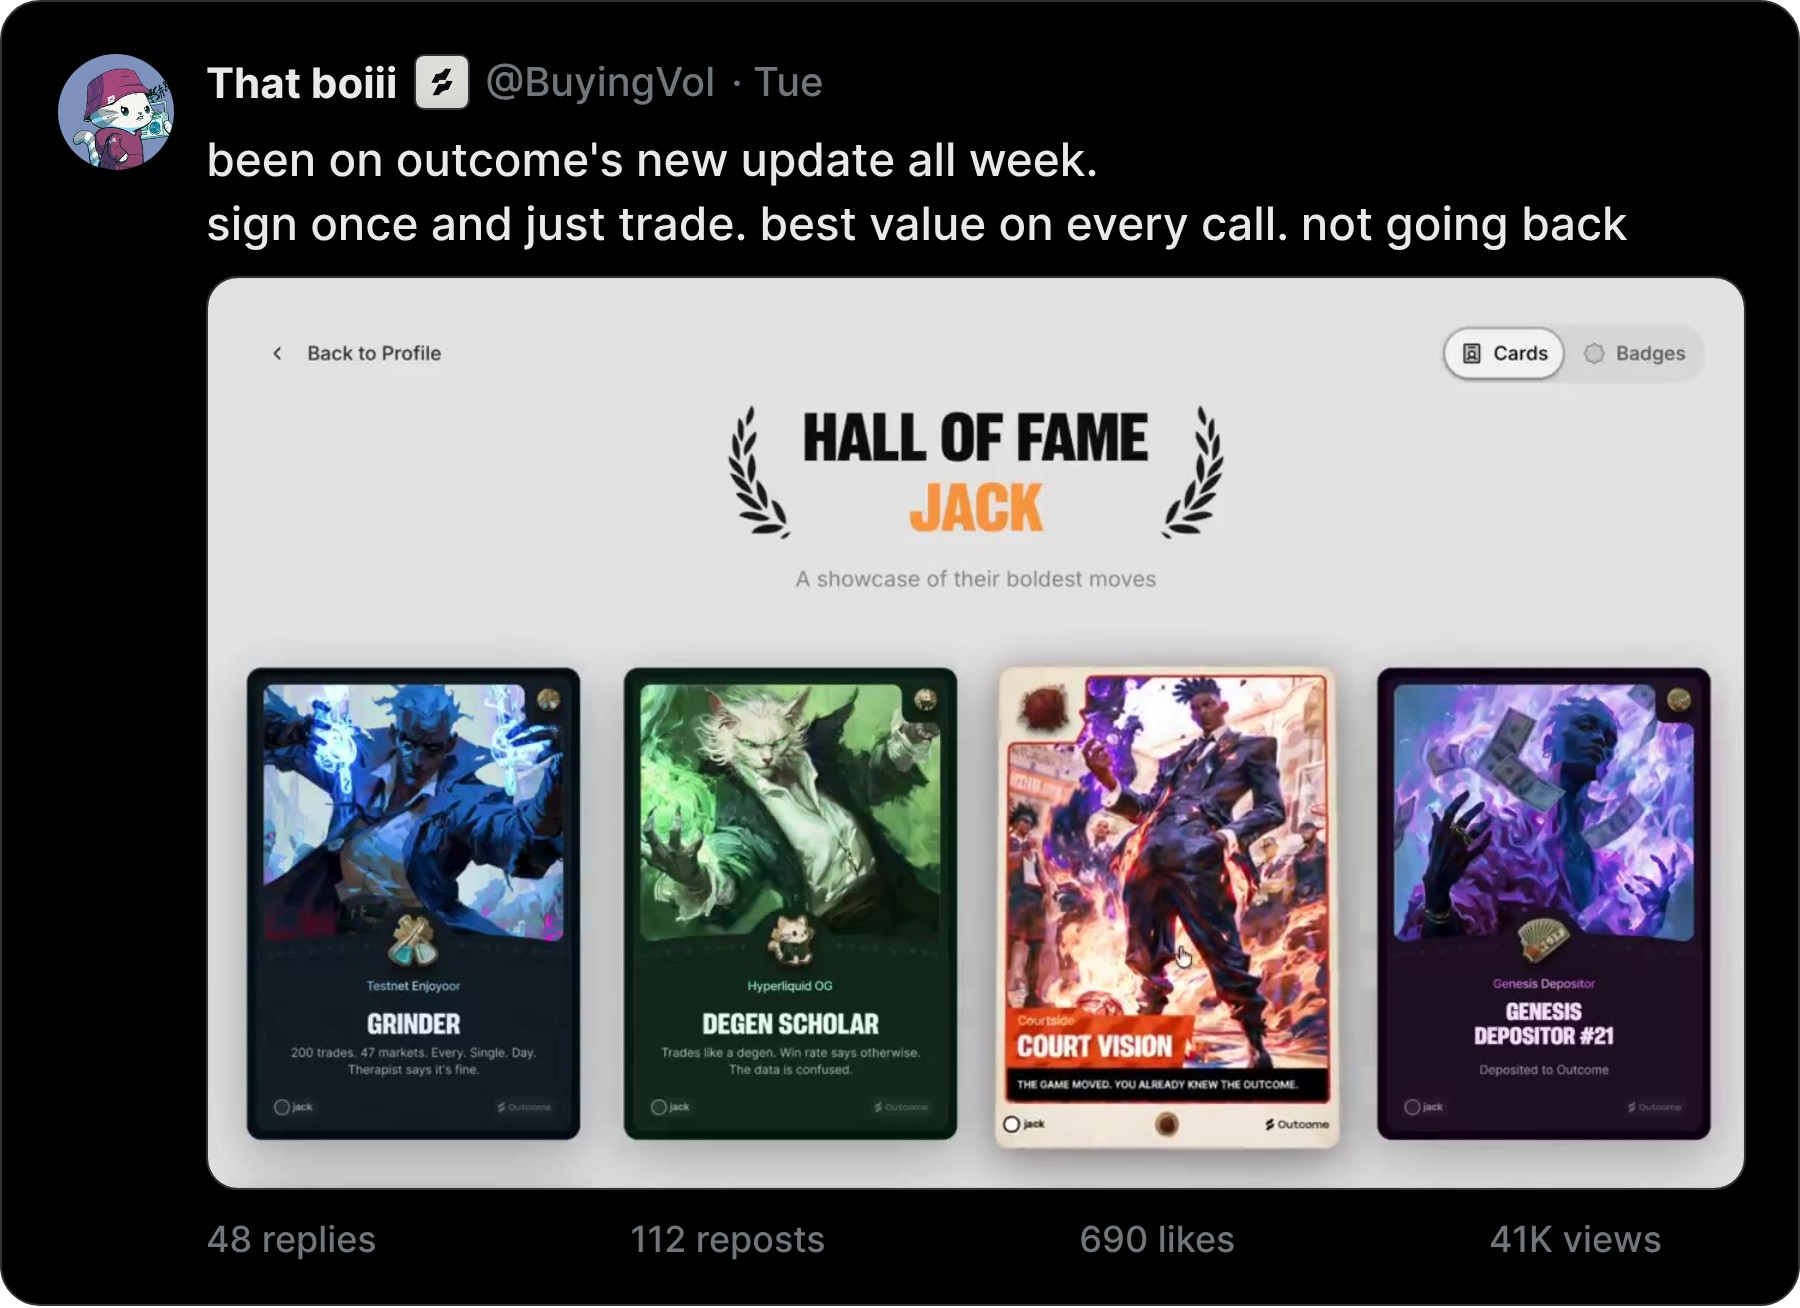
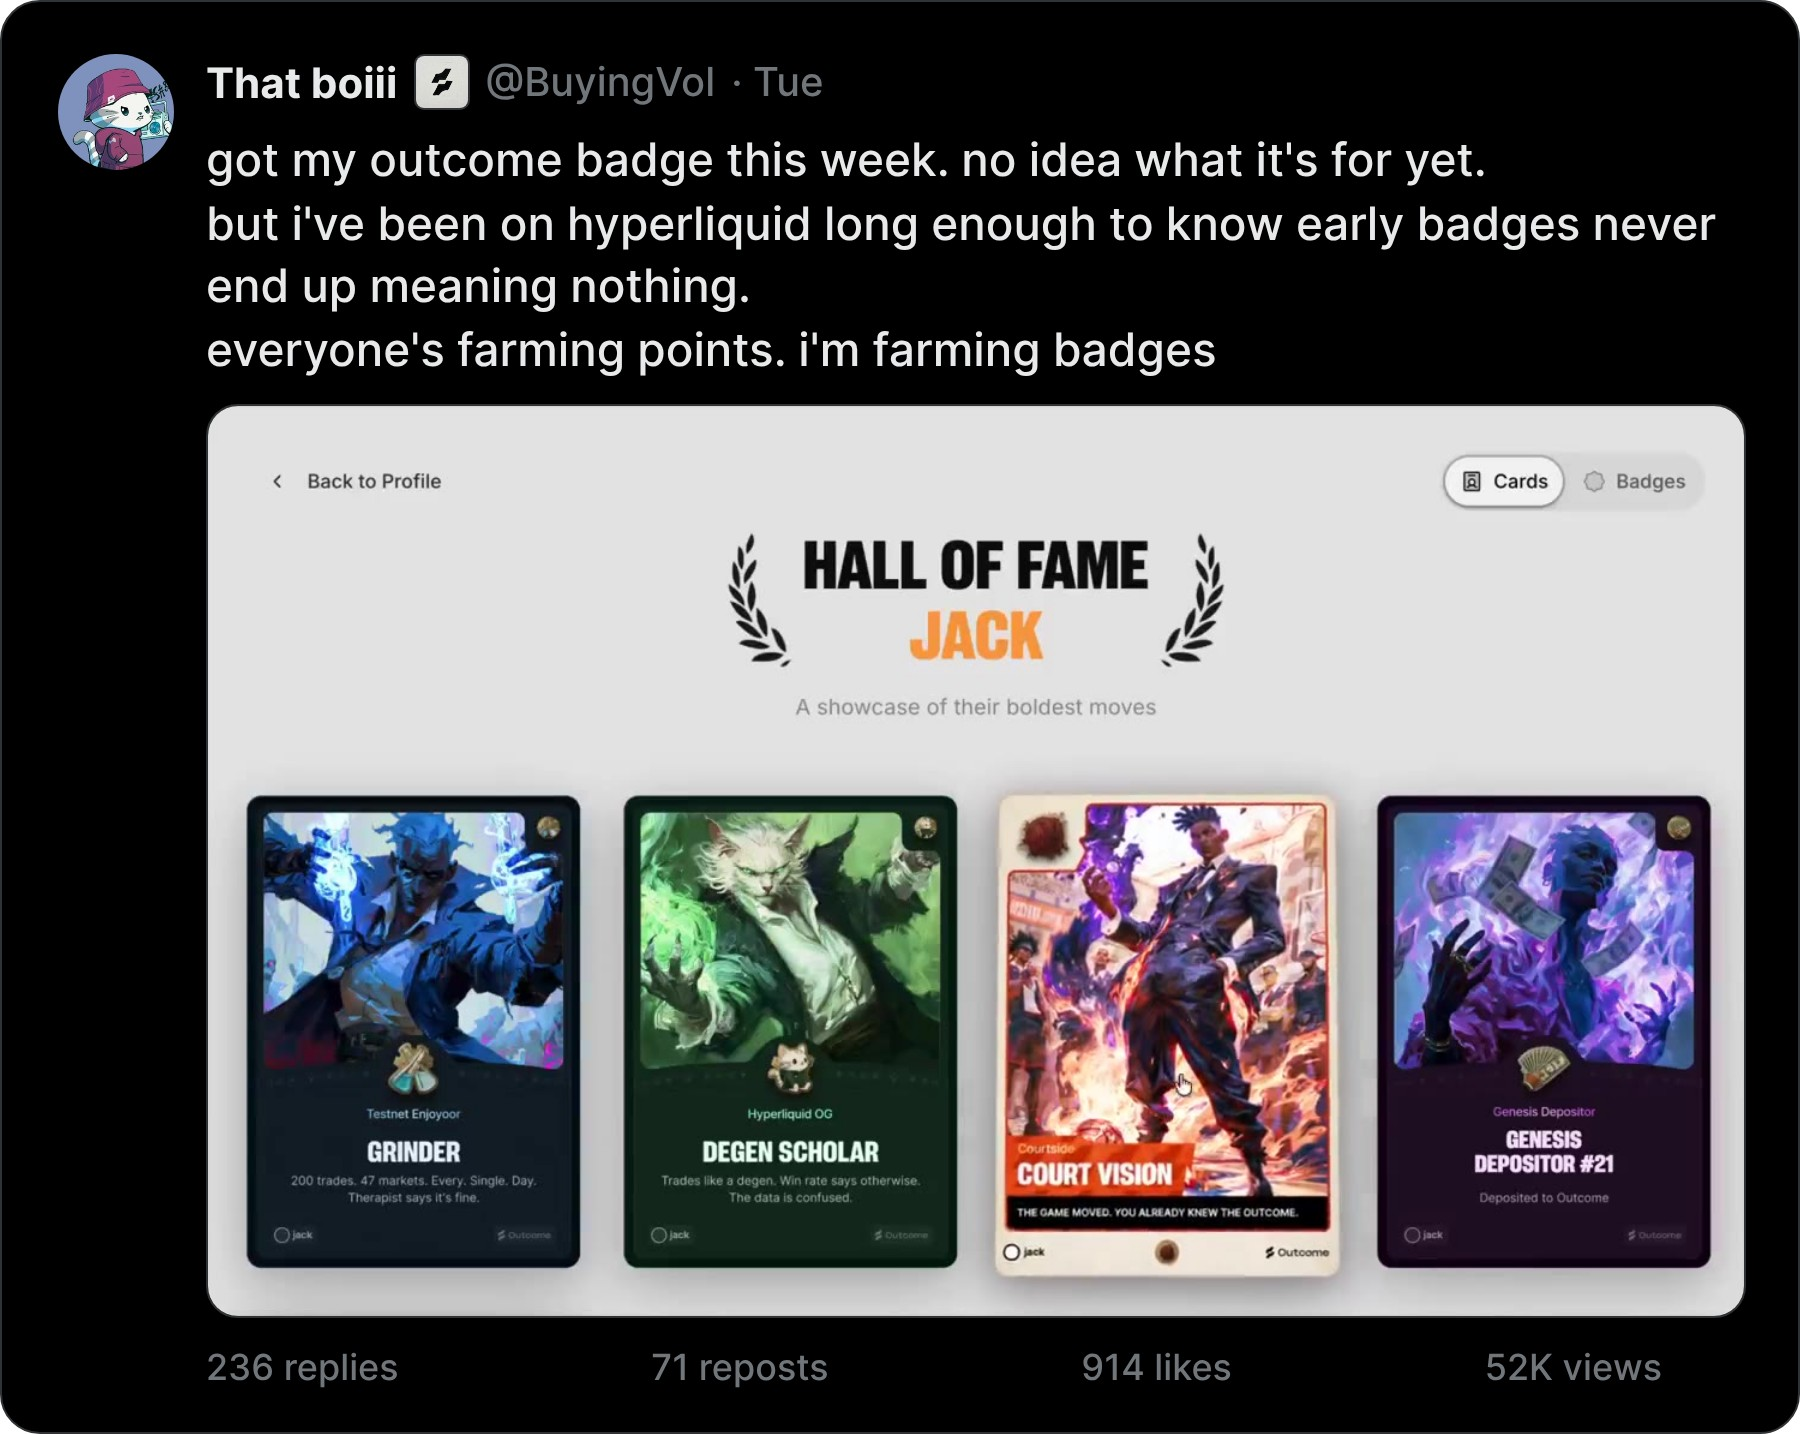
Community decks: mock posts tease the badge
Claude-Session: https://claude.ai/code/session_014PU9ujy91VW7m4JZPWrTgt

diff --git a/deck/obesepotato_hl/index.html b/deck/obesepotato_hl/index.html
@@ -113,8 +113,8 @@ section img[src$="wm.png"]{pointer-events:none}
 <h2 style="font-family:'PP Neue Corp Narrow', Impact, sans-serif;font-weight:800;font-size:110px;line-height:0.88;text-transform:uppercase;color:#F5F8FF">Your voice. Your words.</h2>
 </div>
 <div style="display:flex;gap:64px;align-items:flex-start">
-<img src="/deck/obesepotato_hl/post_peek1.jpg" alt="Mock post by obese.potato: been on outcome’s new update all week, sign once and just trade, best value on every call, not going back, with the Hall of Fame cards" style="width:736px;height:588px;object-fit:contain;border-radius:20px">
-<img src="/deck/obesepotato_hl/post_peek2.jpg" alt="Mock post by obese.potato: checked the same market on outcome and everywhere else i trade, outcome paid more, with the Champions League market card" style="width:736px;height:588px;object-fit:contain;border-radius:20px">
+<img src="/deck/obesepotato_hl/post_peek1.jpg" alt="Mock post by obese.potato: got my outcome badge this week, no idea what it’s for yet, early badges never end up meaning nothing, everyone’s farming points, i’m farming badges, with the Hall of Fame cards" style="width:736px;height:588px;object-fit:contain;border-radius:20px">
+<img src="/deck/obesepotato_hl/post_peek2.jpg" alt="Mock post by obese.potato: everyone keeps asking how to get the outcome badge, you don’t apply, you trade, tell them what’s broken and show up, and no, i’m not dming you a code" style="width:736px;height:588px;object-fit:contain;border-radius:20px">
 </div>
 <img src="/deck/_shared/logo_light.png" alt="Outcome" style="position:absolute;left:128px;bottom:64px;width:150px;height:34px;object-fit:contain">
 <p style="position:absolute;left:310px;bottom:64px;width:620px;font-size:24px;color:rgba(245,248,255,0.55)">Private brief for @Obesepotato_hl</p>

diff --git a/deck/dongdongrobin/index.html b/deck/dongdongrobin/index.html
@@ -113,8 +113,8 @@ section img[src$="wm.png"]{pointer-events:none}
 <h2 style="font-family:'PP Neue Corp Narrow', Impact, sans-serif;font-weight:800;font-size:110px;line-height:0.88;text-transform:uppercase;color:#F5F8FF">Your voice. Your words.</h2>
 </div>
 <div style="display:flex;gap:64px;align-items:flex-start">
-<img src="/deck/dongdongrobin/post_peek1.jpg" alt="Mock post by 东东弗斯: been on outcome’s new update all week, sign once and just trade, best value on every call, not going back, with the Hall of Fame cards" style="width:736px;height:588px;object-fit:contain;border-radius:20px">
-<img src="/deck/dongdongrobin/post_peek2.jpg" alt="Mock post by 东东弗斯: checked the same market on outcome and everywhere else i trade, outcome paid more, with the Champions League market card" style="width:736px;height:588px;object-fit:contain;border-radius:20px">
+<img src="/deck/dongdongrobin/post_peek1.jpg" alt="Mock post by 东东弗斯: got my outcome badge this week, no idea what it’s for yet, early badges never end up meaning nothing, everyone’s farming points, i’m farming badges, with the Hall of Fame cards" style="width:736px;height:588px;object-fit:contain;border-radius:20px">
+<img src="/deck/dongdongrobin/post_peek2.jpg" alt="Mock post by 东东弗斯: everyone keeps asking how to get the outcome badge, you don’t apply, you trade, tell them what’s broken and show up, and no, i’m not dming you a code" style="width:736px;height:588px;object-fit:contain;border-radius:20px">
 </div>
 <img src="/deck/_shared/logo_light.png" alt="Outcome" style="position:absolute;left:128px;bottom:64px;width:150px;height:34px;object-fit:contain">
 <p style="position:absolute;left:310px;bottom:64px;width:620px;font-size:24px;color:rgba(245,248,255,0.55)">Private brief for @dongdongRobin</p>

diff --git a/deck/hypeconomist/index.html b/deck/hypeconomist/index.html
@@ -113,8 +113,8 @@ section img[src$="wm.png"]{pointer-events:none}
 <h2 style="font-family:'PP Neue Corp Narrow', Impact, sans-serif;font-weight:800;font-size:110px;line-height:0.88;text-transform:uppercase;color:#F5F8FF">Your voice. Your words.</h2>
 </div>
 <div style="display:flex;gap:64px;align-items:flex-start">
-<img src="/deck/hypeconomist/post_peek1.jpg" alt="Mock post by HYPEconomist: been on outcome’s new update all week, sign once and just trade, best value on every call, not going back, with the Hall of Fame cards" style="width:736px;height:588px;object-fit:contain;border-radius:20px">
-<img src="/deck/hypeconomist/post_peek2.jpg" alt="Mock post by HYPEconomist: checked the same market on outcome and everywhere else i trade, outcome paid more, with the Champions League market card" style="width:736px;height:588px;object-fit:contain;border-radius:20px">
+<img src="/deck/hypeconomist/post_peek1.jpg" alt="Mock post by HYPEconomist: got my outcome badge this week, no idea what it’s for yet, early badges never end up meaning nothing, everyone’s farming points, i’m farming badges, with the Hall of Fame cards" style="width:736px;height:588px;object-fit:contain;border-radius:20px">
+<img src="/deck/hypeconomist/post_peek2.jpg" alt="Mock post by HYPEconomist: everyone keeps asking how to get the outcome badge, you don’t apply, you trade, tell them what’s broken and show up, and no, i’m not dming you a code" style="width:736px;height:588px;object-fit:contain;border-radius:20px">
 </div>
 <img src="/deck/_shared/logo_light.png" alt="Outcome" style="position:absolute;left:128px;bottom:64px;width:150px;height:34px;object-fit:contain">
 <p style="position:absolute;left:310px;bottom:64px;width:620px;font-size:24px;color:rgba(245,248,255,0.55)">Private brief for @HYPEconomist</p>

diff --git a/deck/buyingvol/index.html b/deck/buyingvol/index.html
@@ -113,8 +113,8 @@ section img[src$="wm.png"]{pointer-events:none}
 <h2 style="font-family:'PP Neue Corp Narrow', Impact, sans-serif;font-weight:800;font-size:110px;line-height:0.88;text-transform:uppercase;color:#F5F8FF">Your voice. Your words.</h2>
 </div>
 <div style="display:flex;gap:64px;align-items:flex-start">
-<img src="/deck/buyingvol/post_peek1.jpg" alt="Mock post by That boiii: been on outcome’s new update all week, sign once and just trade, best value on every call, not going back, with the Hall of Fame cards" style="width:736px;height:588px;object-fit:contain;border-radius:20px">
-<img src="/deck/buyingvol/post_peek2.jpg" alt="Mock post by That boiii: checked the same market on outcome and everywhere else i trade, outcome paid more, with the Champions League market card" style="width:736px;height:588px;object-fit:contain;border-radius:20px">
+<img src="/deck/buyingvol/post_peek1.jpg" alt="Mock post by That boiii: got my outcome badge this week, no idea what it’s for yet, early badges never end up meaning nothing, everyone’s farming points, i’m farming badges, with the Hall of Fame cards" style="width:736px;height:588px;object-fit:contain;border-radius:20px">
+<img src="/deck/buyingvol/post_peek2.jpg" alt="Mock post by That boiii: everyone keeps asking how to get the outcome badge, you don’t apply, you trade, tell them what’s broken and show up, and no, i’m not dming you a code" style="width:736px;height:588px;object-fit:contain;border-radius:20px">
 </div>
 <img src="/deck/_shared/logo_light.png" alt="Outcome" style="position:absolute;left:128px;bottom:64px;width:150px;height:34px;object-fit:contain">
 <p style="position:absolute;left:310px;bottom:64px;width:620px;font-size:24px;color:rgba(245,248,255,0.55)">Private brief for @BuyingVol</p>

diff --git a/deck/pangboygg/index.html b/deck/pangboygg/index.html
@@ -113,8 +113,8 @@ section img[src$="wm.png"]{pointer-events:none}
 <h2 style="font-family:'PP Neue Corp Narrow', Impact, sans-serif;font-weight:800;font-size:110px;line-height:0.88;text-transform:uppercase;color:#F5F8FF">Your voice. Your words.</h2>
 </div>
 <div style="display:flex;gap:64px;align-items:flex-start">
-<img src="/deck/pangboygg/post_peek1.jpg" alt="Mock post by pangboy.hl: been on outcome’s new update all week, sign once and just trade, best value on every call, not going back, with the Hall of Fame cards" style="width:736px;height:588px;object-fit:contain;border-radius:20px">
-<img src="/deck/pangboygg/post_peek2.jpg" alt="Mock post by pangboy.hl: checked the same market on outcome and everywhere else i trade, outcome paid more, with the Champions League market card" style="width:736px;height:588px;object-fit:contain;border-radius:20px">
+<img src="/deck/pangboygg/post_peek1.jpg" alt="Mock post by pangboy.hl: got my outcome badge this week, no idea what it’s for yet, early badges never end up meaning nothing, everyone’s farming points, i’m farming badges, with the Hall of Fame cards" style="width:736px;height:588px;object-fit:contain;border-radius:20px">
+<img src="/deck/pangboygg/post_peek2.jpg" alt="Mock post by pangboy.hl: everyone keeps asking how to get the outcome badge, you don’t apply, you trade, tell them what’s broken and show up, and no, i’m not dming you a code" style="width:736px;height:588px;object-fit:contain;border-radius:20px">
 </div>
 <img src="/deck/_shared/logo_light.png" alt="Outcome" style="position:absolute;left:128px;bottom:64px;width:150px;height:34px;object-fit:contain">
 <p style="position:absolute;left:310px;bottom:64px;width:620px;font-size:24px;color:rgba(245,248,255,0.55)">Private brief for @pangboygg</p>

diff --git a/deck/enesonchain/index.html b/deck/enesonchain/index.html
@@ -113,8 +113,8 @@ section img[src$="wm.png"]{pointer-events:none}
 <h2 style="font-family:'PP Neue Corp Narrow', Impact, sans-serif;font-weight:800;font-size:110px;line-height:0.88;text-transform:uppercase;color:#F5F8FF">Your voice. Your words.</h2>
 </div>
 <div style="display:flex;gap:64px;align-items:flex-start">
-<img src="/deck/enesonchain/post_peek1.jpg" alt="Mock post by enes.hl: been on outcome’s new update all week, sign once and just trade, best value on every call, not going back, with the Hall of Fame cards" style="width:736px;height:588px;object-fit:contain;border-radius:20px">
-<img src="/deck/enesonchain/post_peek2.jpg" alt="Mock post by enes.hl: checked the same market on outcome and everywhere else i trade, outcome paid more, with the Champions League market card" style="width:736px;height:588px;object-fit:contain;border-radius:20px">
+<img src="/deck/enesonchain/post_peek1.jpg" alt="Mock post by enes.hl: got my outcome badge this week, no idea what it’s for yet, early badges never end up meaning nothing, everyone’s farming points, i’m farming badges, with the Hall of Fame cards" style="width:736px;height:588px;object-fit:contain;border-radius:20px">
+<img src="/deck/enesonchain/post_peek2.jpg" alt="Mock post by enes.hl: everyone keeps asking how to get the outcome badge, you don’t apply, you trade, tell them what’s broken and show up, and no, i’m not dming you a code" style="width:736px;height:588px;object-fit:contain;border-radius:20px">
 </div>
 <img src="/deck/_shared/logo_light.png" alt="Outcome" style="position:absolute;left:128px;bottom:64px;width:150px;height:34px;object-fit:contain">
 <p style="position:absolute;left:310px;bottom:64px;width:620px;font-size:24px;color:rgba(245,248,255,0.55)">Private brief for @enesonchain</p>

diff --git a/deck/vexter/index.html b/deck/vexter/index.html
@@ -113,8 +113,8 @@ section img[src$="wm.png"]{pointer-events:none}
 <h2 style="font-family:'PP Neue Corp Narrow', Impact, sans-serif;font-weight:800;font-size:110px;line-height:0.88;text-transform:uppercase;color:#F5F8FF">Your voice. Your words.</h2>
 </div>
 <div style="display:flex;gap:64px;align-items:flex-start">
-<img src="/deck/vexter/post_peek1.jpg" alt="Mock post by 0xVexter: been on outcome’s new update all week, sign once and just trade, best value on every call, not going back, with the Hall of Fame cards" style="width:736px;height:588px;object-fit:contain;border-radius:20px">
-<img src="/deck/vexter/post_peek2.jpg" alt="Mock post by 0xVexter: checked the same market on outcome and everywhere else i trade, outcome paid more, with the Champions League market card" style="width:736px;height:588px;object-fit:contain;border-radius:20px">
+<img src="/deck/vexter/post_peek1.jpg" alt="Mock post by 0xVexter: got my outcome badge this week, no idea what it’s for yet, early badges never end up meaning nothing, everyone’s farming points, i’m farming badges, with the Hall of Fame cards" style="width:736px;height:588px;object-fit:contain;border-radius:20px">
+<img src="/deck/vexter/post_peek2.jpg" alt="Mock post by 0xVexter: everyone keeps asking how to get the outcome badge, you don’t apply, you trade, tell them what’s broken and show up, and no, i’m not dming you a code" style="width:736px;height:588px;object-fit:contain;border-radius:20px">
 </div>
 <img src="/deck/_shared/logo_light.png" alt="Outcome" style="position:absolute;left:128px;bottom:64px;width:150px;height:34px;object-fit:contain">
 <p style="position:absolute;left:310px;bottom:64px;width:620px;font-size:24px;color:rgba(245,248,255,0.55)">Private brief for @Vexter</p>

diff --git a/deck/mbxxvv/index.html b/deck/mbxxvv/index.html
@@ -113,8 +113,8 @@ section img[src$="wm.png"]{pointer-events:none}
 <h2 style="font-family:'PP Neue Corp Narrow', Impact, sans-serif;font-weight:800;font-size:110px;line-height:0.88;text-transform:uppercase;color:#F5F8FF">Your voice. Your words.</h2>
 </div>
 <div style="display:flex;gap:64px;align-items:flex-start">
-<img src="/deck/mbxxvv/post_peek1.jpg" alt="Mock post by MB.hl: been on outcome’s new update all week, sign once and just trade, best value on every call, not going back, with the Hall of Fame cards" style="width:736px;height:588px;object-fit:contain;border-radius:20px">
-<img src="/deck/mbxxvv/post_peek2.jpg" alt="Mock post by MB.hl: checked the same market on outcome and everywhere else i trade, outcome paid more, with the Champions League market card" style="width:736px;height:588px;object-fit:contain;border-radius:20px">
+<img src="/deck/mbxxvv/post_peek1.jpg" alt="Mock post by MB.hl: got my outcome badge this week, no idea what it’s for yet, early badges never end up meaning nothing, everyone’s farming points, i’m farming badges, with the Hall of Fame cards" style="width:736px;height:588px;object-fit:contain;border-radius:20px">
+<img src="/deck/mbxxvv/post_peek2.jpg" alt="Mock post by MB.hl: everyone keeps asking how to get the outcome badge, you don’t apply, you trade, tell them what’s broken and show up, and no, i’m not dming you a code" style="width:736px;height:588px;object-fit:contain;border-radius:20px">
 </div>
 <img src="/deck/_shared/logo_light.png" alt="Outcome" style="position:absolute;left:128px;bottom:64px;width:150px;height:34px;object-fit:contain">
 <p style="position:absolute;left:310px;bottom:64px;width:620px;font-size:24px;color:rgba(245,248,255,0.55)">Private brief for @MBxxvv</p>
